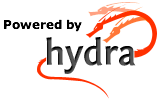
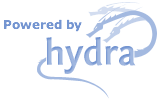
HYLIBRA-130: UVa Library footer, small additional fixes
Alters footer to mirror other UVa Library pages, makes Hydra logo
fit tonally with footer content, and makes small HTML validation
and CSS changes.

Changed region(s): [[0.2188, 0.0, 1.0, 0.9208], [0.0, 0.1782, 0.5312, 0.3267], [0.6562, 0.9208, 0.6875, 0.9802]]

diff --git a/public/stylesheets/uva/styles.css b/public/stylesheets/uva/styles.css
@@ -880,46 +880,63 @@ tr.document {
 }*/
 
 #footer {
-    height: 74px;
     width: 100%;
-    background-image: url(../../images/uva/footer_bg.jpg);
+	background-color: #4672AF;
+    background-image: url(../../images/uva/footer_bg.png);
     background-repeat: repeat-x;
 }
 
 #footer #container3 {
+	height: 160px;
     width: 960px;
     margin-right: auto;
     margin-left: auto;
-    height: 69px;
     text-align: right;
     font-family: "Helvetica Neue", Arial, Helvetica, sans-serif;
-    font-size: 10px;
+    font-size: 11px;
     color: #FFF;
     line-height: 21px;
-    padding-top: 5px;
+    padding-top: 15px;
+}
+
+#footer .contact_info {
+	float: left;
+	margin-bottom: 1.5em;
+	text-align: left;
+}
+
+#footer .aux_links {
+	float: right;
+	text-align: right;
+}
+
+#footer_notices {
+	border-top: 1px solid #648FC7;
+	clear: both;
+	padding-top: 1.5em;
+	width: 100%;
 }
 
 #footer #container3 #federal_lib_logo {
     float: left;
     height: 50px;
-    width: 37px;
-    margin-right: 50px;
-    /*margin-top: -10px;*/
+    width: 5%;
+	text-align: left;
 }
 
 #footer #container3 #hydra_logo {
-    float: right;
+    float: left;
     height: 50px;
-    width: 80px;
-    margin-left: 50px;
+    width: 10%;
 }
 
 #footer #container3 #bottom_text {
+	float: left;
 	font-size: 11px;
 	font-weight: bold;
 	color: #B9CAE6;
-	margin-left: 50px;
-    margin-right: 50px;
+	height: 50px;
+	width: 85%;
 }
 
 #footer #container3 #bottom_text #federal_lib{
@@ -1773,8 +1790,10 @@ li fieldset a {
     min-width: 170px;
 }
 
-#person_1, #person_2, #person_3, #person_4, #person_5,
-#person_6, #person_7, #person_8, #person_9, #person_10 {
+.document_edit #person_1, .document_edit #person_2, .document_edit #person_3, 
+.document_edit #person_4, .document_edit #person_5, .document_edit #person_6, 
+.document_edit #person_7, .document_edit #person_8, .document_edit #person_9, 
+.document_edit #person_10, .document_edit #person_11, .document_edit #person_12 {
 	border-top: 1px dotted #CCC;
 	margin-top: 20px;
 }
